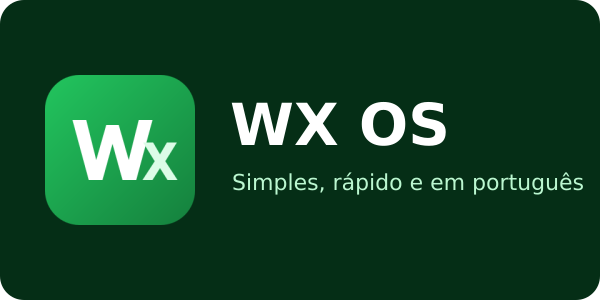
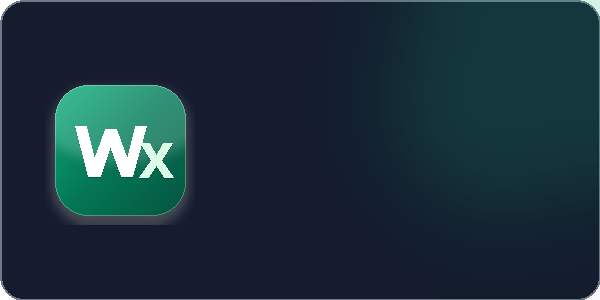
Add files via upload

diff --git a/config/includes.chroot/etc/calamares/branding/wxos/show.qml b/config/includes.chroot/etc/calamares/branding/wxos/show.qml
@@ -16,31 +16,31 @@ Presentation
     }
 
     Slide {
-        Rectangle { anchors.fill: parent; color: "#052E16" }
-        Image { id: logo1; source: "logo.png"; width: 140; height: 140; fillMode: Image.PreserveAspectFit
+        Rectangle { anchors.fill: parent; color: "#0B1319" }
+        Image { id: logo1; source: "logo.png"; width: 130; height: 130; fillMode: Image.PreserveAspectFit
                 anchors.horizontalCenter: parent.horizontalCenter; anchors.top: parent.top; anchors.topMargin: 40 }
-        Text { anchors.top: logo1.bottom; anchors.topMargin: 24; anchors.horizontalCenter: parent.horizontalCenter
-               width: parent.width * 0.8; horizontalAlignment: Text.AlignHCenter; wrapMode: Text.WordWrap
-               color: "#FFFFFF"; font.pixelSize: 22
-               text: "Bem-vindo ao <b>WX OS</b>.<br/>Estamos instalando o sistema no seu computador.<br/><br/><small>Desenvolvido por GR TECH</small>" }
+        Text { anchors.top: logo1.bottom; anchors.topMargin: 22; anchors.horizontalCenter: parent.horizontalCenter
+               width: parent.width * 0.85; horizontalAlignment: Text.AlignHCenter; wrapMode: Text.WordWrap
+               color: "#FFFFFF"; font.pixelSize: 22; font.family: "Inter"
+               text: "Bem-vindo ao <b>WX OS</b>.<br/>A elegância do macOS com a robustez e estabilidade do Debian.<br/><br/><small style='color:#34D399'>Desenvolvido por GR TECH</small>" }
     }
     Slide {
-        Rectangle { anchors.fill: parent; color: "#14532D" }
-        Text { anchors.centerIn: parent; width: parent.width * 0.8; horizontalAlignment: Text.AlignHCenter
-               wrapMode: Text.WordWrap; color: "#FFFFFF"; font.pixelSize: 20
-               text: "<b>Tudo em português</b><br/><br/>Navegador, vídeos e fotos já vêm prontos para usar. O LibreOffice instala pelo Discover com um clique." }
+        Rectangle { anchors.fill: parent; color: "#0F172A" }
+        Text { anchors.centerIn: parent; width: parent.width * 0.85; horizontalAlignment: Text.AlignHCenter
+               wrapMode: Text.WordWrap; color: "#FFFFFF"; font.pixelSize: 20; font.family: "Inter"
+               text: "<b>Interface Inspirada no macOS</b><br/><br/>Barra de menus superior com <b>Menu Global unificado</b> e <b>Dock flutuante</b> inferior para acesso rápido aos seus aplicativos favoritos com visual limpo e moderno." }
     }
     Slide {
-        Rectangle { anchors.fill: parent; color: "#15803D" }
-        Text { anchors.centerIn: parent; width: parent.width * 0.8; horizontalAlignment: Text.AlignHCenter
-               wrapMode: Text.WordWrap; color: "#FFFFFF"; font.pixelSize: 20
-               text: "<b>Modo claro e escuro</b><br/><br/>Procure por \"Tema claro\" ou \"Tema escuro\" no menu para trocar o visual quando quiser." }
+        Rectangle { anchors.fill: parent; color: "#064E3B" }
+        Text { anchors.centerIn: parent; width: parent.width * 0.85; horizontalAlignment: Text.AlignHCenter
+               wrapMode: Text.WordWrap; color: "#FFFFFF"; font.pixelSize: 20; font.family: "Inter"
+               text: "<b>Tipografia Inter & Gráficos em Alta Definição</b><br/><br/>Fontes ultra nítidas no estilo Apple San Francisco, ícones modernos Papirus e papéis de parede abstratos em 4K nos modos claro e escuro." }
     }
     Slide {
-        Rectangle { anchors.fill: parent; color: "#052E16" }
-        Text { anchors.centerIn: parent; width: parent.width * 0.8; horizontalAlignment: Text.AlignHCenter
-               wrapMode: Text.WordWrap; color: "#FFFFFF"; font.pixelSize: 20
-               text: "<b>Loja de aplicativos</b><br/><br/>Abra o Discover para instalar novos programas com um clique." }
+        Rectangle { anchors.fill: parent; color: "#0F172A" }
+        Text { anchors.centerIn: parent; width: parent.width * 0.85; horizontalAlignment: Text.AlignHCenter
+               wrapMode: Text.WordWrap; color: "#FFFFFF"; font.pixelSize: 20; font.family: "Inter"
+               text: "<b>Loja de Aplicativos & Flatpak</b><br/><br/>Abra o Discover para instalar LibreOffice, Spotify, navegadores e milhares de ferramentas com apenas um clique." }
     }
 
     function onActivate() { presentation.currentSlide = 0; }
